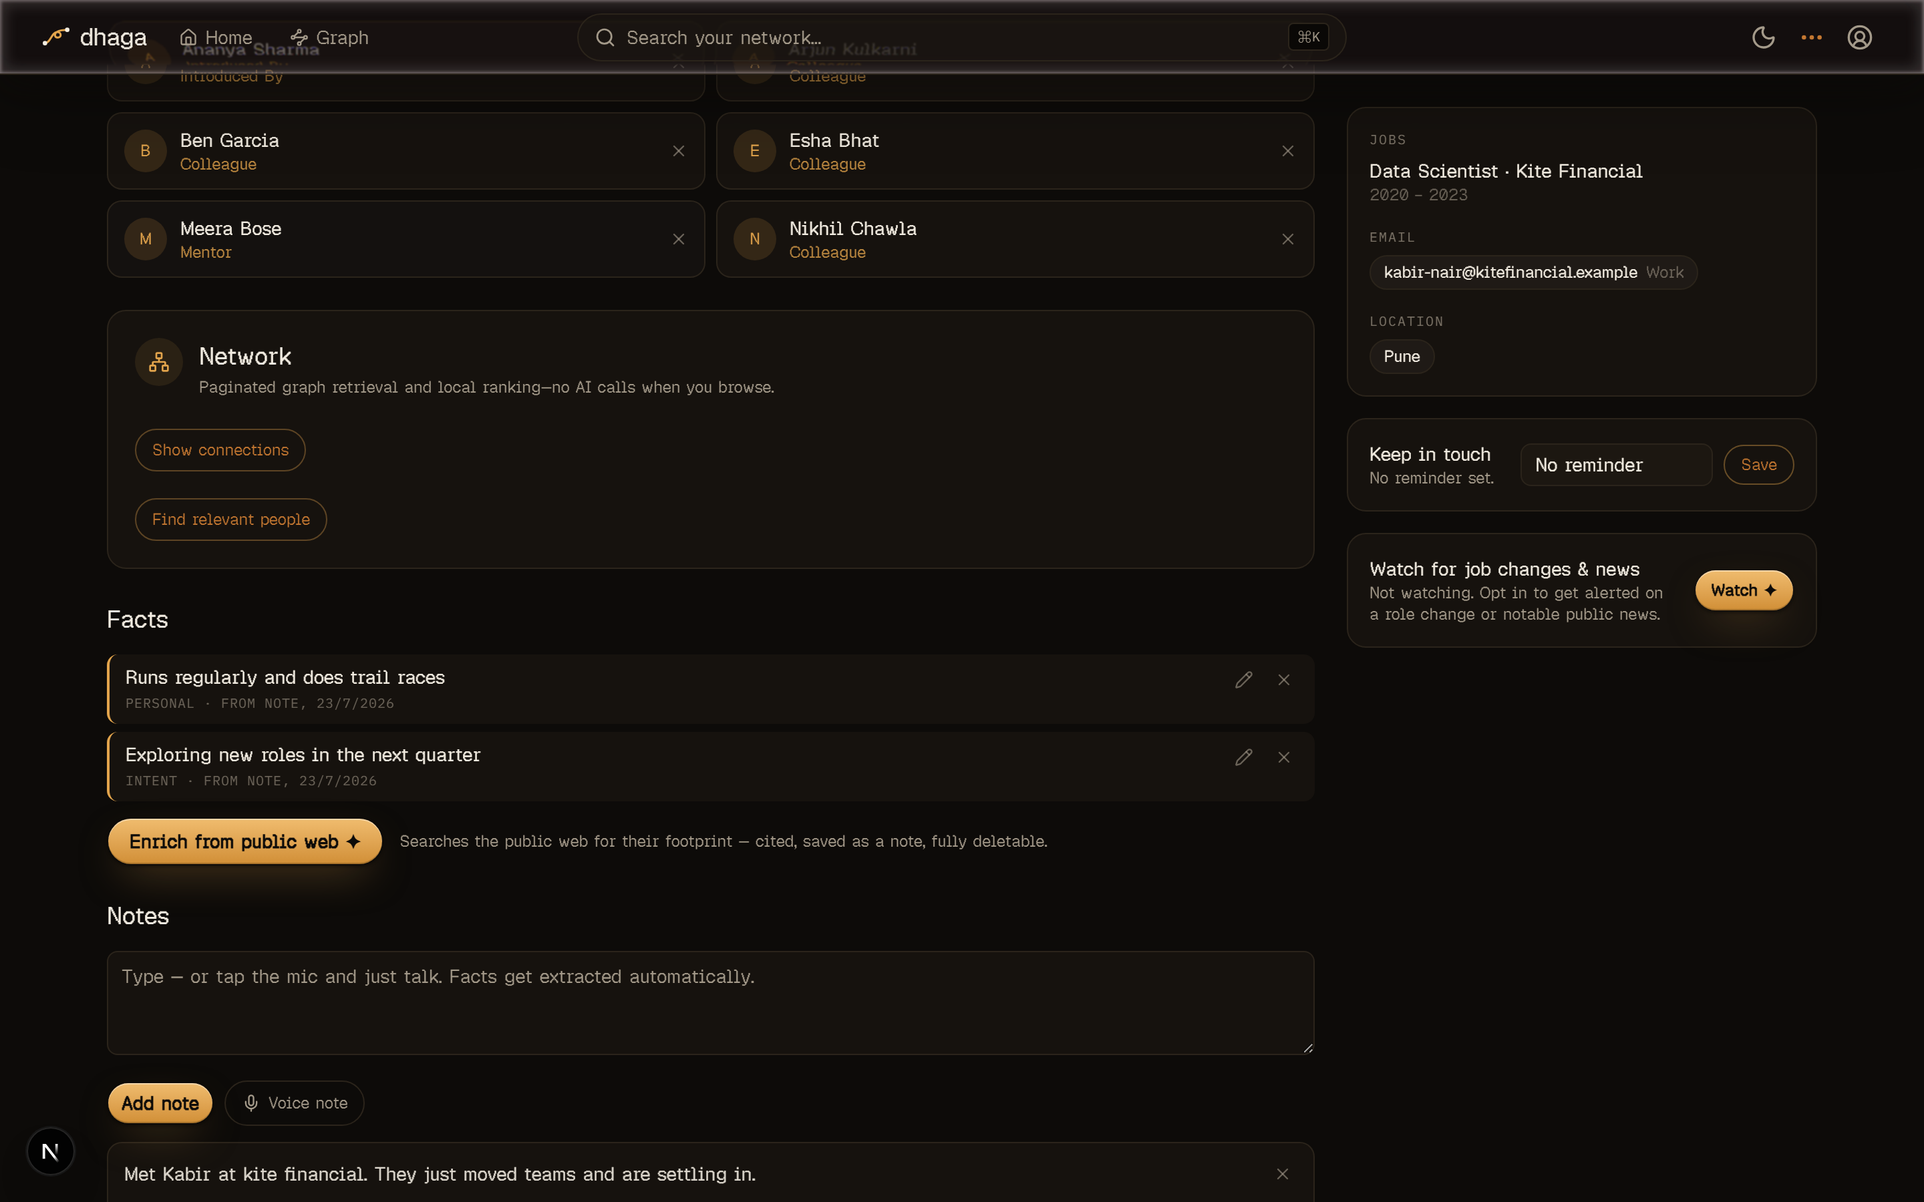
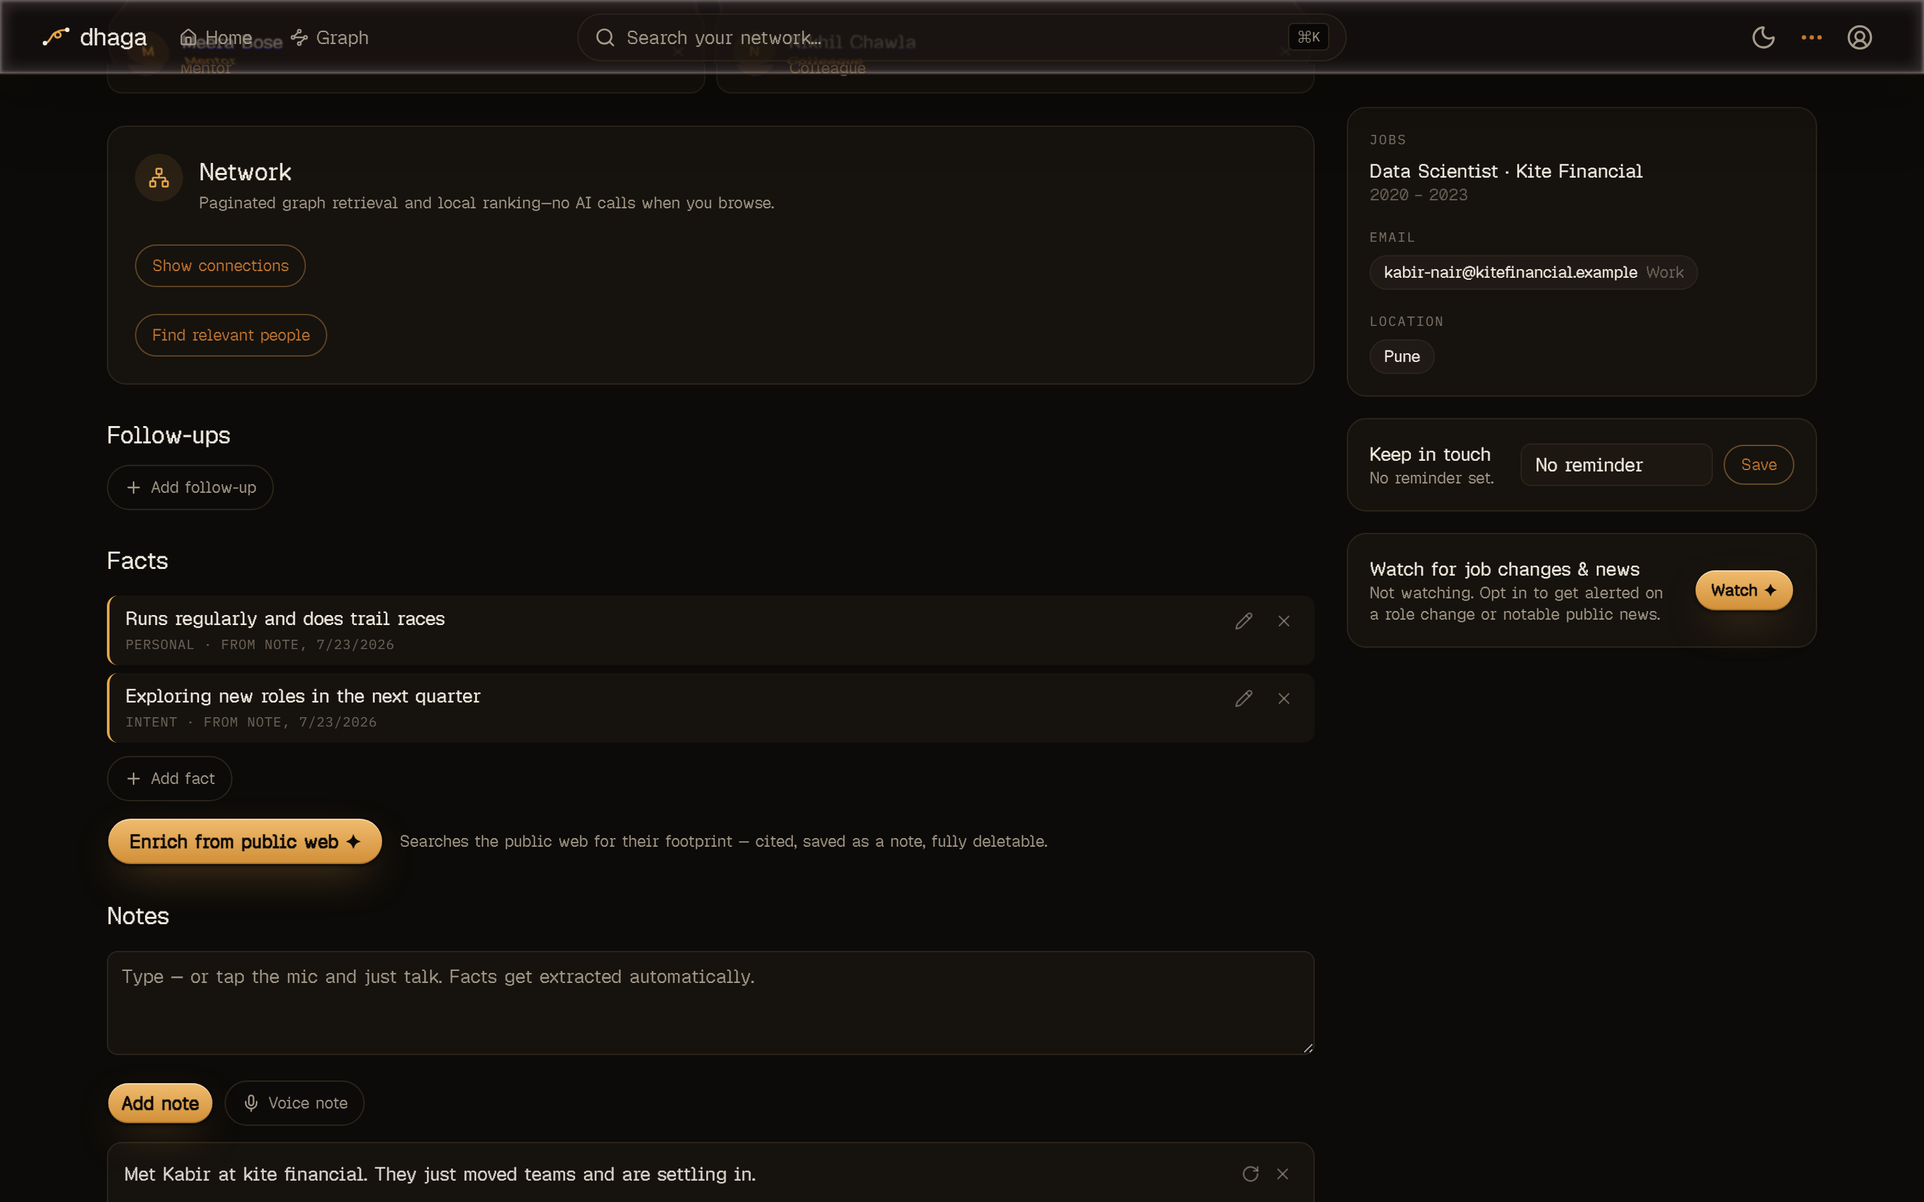
docs: refresh all documentation for merged PRs #52–#75
Audits every merged PR from #52 through #75 and brings the developer
docs, operator docs, and the "Using Dhaga" user guide back in sync with
what shipped. One consolidated pass; per-PR analysis was done in
isolation, then reconciled so each doc file (and each root↔fumadocs
mirror) is edited once.

User guide (how-to-use):
- settings.mdx rewritten around the new Account/Capture/Calendar/
  Suggestions/Import tabs; adds Profile, AI-credit balance, Voice
  teaching, morning-reminder toggle, and the vCard/CSV + Google/Outlook
  connector + mobile import story (#59, #70, #71, #73)
- index.mdx: new "Importing contacts" card + Home stat-strip mention (#59, #69)
- capturing-people.mdx: multi-image card scan + live webcam, voice
  tap-to-fix teaching (#71, #75)
- notes-and-facts.mdx: re-run extraction, voice tap-to-fix (#68, #71)

Operator / self-hosting:
- SELF_HOSTING/DEPLOYING + fumadocs mirrors: new BETTER_AUTH_TRUSTED_ORIGINS
  and NEXT_PUBLIC_SITE_URL env vars, MORNING_REMINDER_HOURLY, single-user
  guard, SUPERUSER + broadened pooler boot-guard, admin subscription/AI
  credit controls, contact-import-is-core note, AGPL-removal admin/ dir (#52,
  #57, #59, #62, #64, #73)
- SCALING mirror: getDb() fan-out / one-query hot-path note (#60)
- TESTING (+ mirror): connect-retry, multi-image + morning-reminder QA (#65, #73, #75)

Reference / status:
- checklist.md + mirror, BRD.md + de-named mirror, FOLLOW_UPS, SECURITY
[…]

diff --git a/docs/checklist.md b/docs/checklist.md
@@ -19,7 +19,7 @@ Legend: **(M#)** = BRD MVP feature · **(v1.x)** = BRD roadmap phase
 - [x] `apps/web/.env.example` documenting every env var
 - [x] CI (typecheck + lint + tests + build on push)
 - [x] Test suite (vitest, in-memory PGlite): heuristic parser, export formats, receipts cascade
-- [x] Fix Dependabot alert (postcss <8.5.10 via next — npm override to ^8.5.16)
+- [x] Fix Dependabot alert (postcss <8.5.10 via next — npm override to ^8.5.16) (needed a version-keyed postcss override to actually dedupe next's nested pin — PR #55)
 - [x] Deploy to Vercel (landing + app)
 
 ## 1. Shared core — `packages/core`
@@ -44,6 +44,9 @@ Legend: **(M#)** = BRD MVP feature · **(v1.x)** = BRD roadmap phase
 - [x] Loading skeletons on data-heavy screens (route `loading.tsx` files)
 - [x] Dark warm theme reused from landing tokens
 - [x] Home dashboard: due reach-outs + open follow-ups across the graph
+- [x] Per-section Suspense streaming on home/profile/settings (each data region streams independently behind its own boundary)
+- [x] Home stat strip: people/companies/notes/facts/relationships/events/follow-ups/entities counts via one aggregate RLS-scoped query (`lib/repo/stats.ts`), own Suspense region
+- [x] Searchable EntityCombobox + trigram GIN indexes replace bare entity text boxes
 - [ ] Fix render-blocking font/animation on first load (BRD §7.6) — Geist Pixel self-hosted via `next/font/local` (was a `display=block` Google Fonts `<link>`, invisible text until it loaded); landing WebGL cursor + GSAP scroll thread deferred via `next/dynamic({ ssr: false })` so they no longer block first paint — 2026-07-12, build verification + push still pending
 - [ ] Cache authenticated `/app/*` navigation so switching pages doesn't re-run the full Postgres query set on every click (BRD §7.6) — per-user scoped, invalidated on mutation, not a raw TTL. Built (`perf/app-nav-cache`): a `cachePerUser`/`invalidatePerUser` helper (`lib/cache/per-user.ts`) over `unstable_cache` — cache key + tag both include `userId` and the read runs inside `withUserDb(userId)`, so an entry can only ever hold that user's data (missed invalidation = same-user staleness, never cross-tenant leak). The force-dynamic shell (`getCachedAppConfig`: isAdmin/searchWeights/**sttEngine**/storeCardPhotos) now costs **zero** Postgres round-trips per nav, and the node-type ontology (`getCachedNodeTypes`, home/entities) is cached too; both bust via `revalidateTag(..,{expire:0})` in their settings/node-type mutations. Volatile feeds (due reach-outs, signals, suggestions) intentionally left live. The heaviest hot read, **`/api/graph/full`**, is also cached now via `cachePerUserVersioned`/`getCachedFullGraph` — version-keyed on the cheap `fetchGraphVersion()` aggregate, so a graph change changes the key (no explicit invalidation, never stale) and the multi-table assembly runs once per version instead of per request. Store backend is Next's default incremental cache; Redis = a `cacheHandler` in `next.config.ts`, no app-code change (Vercel already has a durable shared Data Cache). Typecheck/lint/vitest pass; **still to do**: manual browser pass + push; extend to `schedulePrefs`/`calendarConnected` (home) with their own tags
 - [ ] Read scale at ~10k users — cache the remaining **hot reads** per user (contact/event lists version-keyed + JSON-safe; data-only parts of the home feed) with the `cachePerUserVersioned` pattern, behind a Redis `cacheHandler` for shared multi-instance self-hosting — graph payload already done; see [SCALING.md](SCALING.md) §1 + roadmap
@@ -65,7 +68,7 @@ Legend: **(M#)** = BRD MVP feature · **(v1.x)** = BRD roadmap phase
 - [x] `embeddings` table (pgvector, 384-dim, receipts via owner_type/owner_id)
 - [x] `follow_ups` table
 - [x] `ai_actions` metering table (day one requirement)
-- [x] Deletion cascade: contact → notes → facts → edges → embeddings ("forget this person") — `forgetContact` already did this correctly (`repo/contacts/mutations.ts`)
+- [x] Deletion cascade: contact → notes → facts → edges → embeddings ("forget this person") — `forgetContact` cascaded the chain, but deleting a contact that had produced relationship suggestions was blocked by `edge_suggestions` RESTRICT FKs until PR #57 extended the cascade to them (`repo/contacts/mutations.ts`)
 - [x] Note deletion tombstones derived facts/edges (receipts invariant) — embeddings cleanup moved into `deleteNote` itself (2026-07-07, was only in the action layer, so any other caller skipped it); `graph-receipts.test.ts` now asserts embeddings are gone, not pushed
 
 ## 4. Capture — web quick-add (v1.1, M1-equivalent for web)
@@ -83,6 +86,7 @@ Legend: **(M#)** = BRD MVP feature · **(v1.x)** = BRD roadmap phase
 - [x] Manual add-contact form (no extraction path)
 - [x] People list with filter + contact detail page
 - [x] Company auto-link: extracted company name → find-or-create `companies` row
+- [x] Jobs editor — create a new company inline when there's no match (reuses EntityCombobox create + `findOrCreateCompany`)
 - [x] User-triggered enrichment: web search → cited enrichment note → receipted facts
 - [x] LinkedIn Connections CSV import — user's own LinkedIn data export → bulk contacts, ToS-safe (BRD §6.7) (v1.1); `lib/import/linkedin.ts`, wired into `/app/import`, LinkedIn header format covered by `csv-import.test.ts`/`import-repo.test.ts`
 - [x] Google Contacts CSV import — user's own Google export (both header generations, `:::` multi-values) → bulk contacts (v1.1); `lib/import/google.ts`, wired into `/app/import`, covered by `csv-import.test.ts`/`import-repo.test.ts`
@@ -108,6 +112,7 @@ Legend: **(M#)** = BRD MVP feature · **(v1.x)** = BRD roadmap phase
 - [x] Extraction: note → facts/relationships/follow-ups/tags (Haiku, structured output)
 - [x] Facts render on contact page with receipt ("from note, {date}")
 - [x] User can edit/delete a fact inline (M4 acceptance)
+- [x] Manual add-fact / add-follow-up forms (no extraction path, NULL receipt)
 - [x] Deleting a note tombstones its derived facts/edges
 - [x] Re-process a note: manual "re-run extraction" on an existing note (text/voice/capture_source) — after an edit or a missed fact — re-enqueues a `note_extraction` job for the same note; idempotent (worker's `clearNoteDerivations` replaces the note's prior facts/edges/follow-ups, never duplicates), AI budget still metered in the worker
 - [x] Voice notes on web (browser SpeechRecognition → transcript → extraction)
@@ -190,6 +195,7 @@ Legend: **(M#)** = BRD MVP feature · **(v1.x)** = BRD roadmap phase
 - [ ] Job-change detection — simplified to web-search-only per product decision (2026-07-05), superseding the CSV-diff mechanism in BRD §6.7: shares the signal-detection sweep with the news watchlist below, `kind: "job_change"` when the search results show a different title/employer than what's on file. Typecheck/lint/build/tests pass; manual click-through needs a real `FIRECRAWL_API_KEY` + `ANTHROPIC_API_KEY`, not done
 - [ ] Opt-in news watchlist: per-contact "Watch for job changes & news" toggle (contact page) → nightly cron (`/api/jobs/detect-signals`, `apps/web/vercel.json`) → provider-agnostic web search (`packages/core/src/search`, Firecrawl by default — cheaper per-search than an LLM's own web-search tool) → Haiku classifies hits → `signals` table → Home "Signals" feed + contact page, "Add as note" (receipted) or dismiss. Capped per plan (`PRO_TIER_WATCHLIST_CAP`/`FREE_TIER_WATCHLIST_CAP`). Typecheck/lint/build/tests pass (`signals.test.ts`, `search-client.test.ts`); manual click-through not done (needs live API keys)
 - [x] Keep-in-touch cadence reminders + Home reach-out feed (ideas.md #2)
+- [x] Opt-in morning follow-up reminder email (daily nudge for open follow-ups + due reach-outs via `/api/jobs/daily`, dummy-account exclusion via `isDummyAccount()`)
 - [ ] Automatic relationship-decay detection — built read-time (no nightly job needed): "Going quiet" feed on Home surfaces contacts with no touch in ~8 months and no cadence set (`repo/strength.ts`); typecheck/lint/build/tests pass, manual click-through not done
 - [ ] Relationship-strength score from own-graph data (interaction recency/frequency, notes, events — no external data) — built: 0–100 recency×frequency score (`scoreStrength`), ranks the Going-quiet feed strongest-first; tests in `strength.test.ts`, manual click-through not done
 - [x] Post-event digest email (user-triggered from the event page, template-based)
@@ -226,7 +232,8 @@ Legend: **(M#)** = BRD MVP feature · **(v1.x)** = BRD roadmap phase
 - [x] `docker compose up` — multi-stage `Dockerfile` (node:22-slim, standalone output via `DHAGA_STANDALONE=1`, non-root, 494MB) + `compose.yml` (pgvector/pgvector:pg16 db with healthcheck) verified end-to-end 2026-07-16: Postgres-backed and zero-config PGlite boots both serve with clean first-boot DDL self-heal (the earlier single-stage image was never actually runnable — missing workspace manifest)
 - [ ] Public roadmap + good-first-issues — `docs/ROADMAP.md` written 2026-07-07, now linked from `README.md`'s Status section (2026-07-12); good-first-issue candidates drafted but intentionally not posted as real GitHub issues yet (that's a public/outward action for the owner to approve)
 - [ ] Replace randomuser.me landing portraits with licensed photos before paid marketing
-- [ ] SEO content cluster — 10 pillar "Guides" posts (personal-CRM / networking, India + founder slant, high-CTR titles/metas) under a new `guides` blog category, plus reusable on-brand MDX visual components (`Figure`/`NodeGraph`/`FlowDiagram`/`Timeline`/`FeatureMatrix`/`StatStrip` in `apps/web/src/components/blog/visuals`, registered in `mdx-components.tsx`) — written 2026-07-24, builds clean (SSG); pending in-browser visual QA + merge
+- [x] Docs/nav/SEO overhaul (2026-07-23): Resources discoverability nav + two-track `/docs` hub segregation (product vs guides), blog categories + frontmatter, full SEO suite (sitemap/robots/llms.txt/RSS/OG/JSON-LD), CLAUDE.md Rule 14 (subagent orchestration)
+- [ ] SEO content cluster — 15 "Guides" posts (10 pillars + 5 "Dhaga vs X" comparisons; personal-CRM / networking, India + founder slant, high-CTR titles/metas) under a new `guides` blog category, plus reusable on-brand MDX visual components (`Figure`/`NodeGraph`/`FlowDiagram`/`Timeline`/`FeatureMatrix`/`StatStrip` in `apps/web/src/components/blog/visuals`, registered in `mdx-components.tsx`) — written 2026-07-24, builds clean (SSG); pending in-browser visual QA
 
 ## 19. SaaS platform — accounts, multi-tenancy, billing, admin (Dhaga Cloud)
 

diff --git a/SECURITY.md b/SECURITY.md
@@ -11,8 +11,8 @@ afterthought.
   central Dhaga server that reads your graph.
 - **Hosted (Dhaga Cloud) tenant isolation** is enforced by Postgres row-level
   security, keyed to the authenticated user via a session-scoped setting, on a
-  non-privileged database role (no `BYPASSRLS`) with `FORCE ROW LEVEL SECURITY`
-  on every tenant table.
+  non-privileged database role (no `BYPASSRLS` or `SUPERUSER`) with
+  `FORCE ROW LEVEL SECURITY` on every tenant table.
 - **Receipts and deletion.** Every AI-derived fact links back to its source
   note. Deleting data cascades and tombstones across notes, facts, edges, and
   embeddings — transactionally, so nothing is left half-deleted.
@@ -39,3 +39,13 @@ reasonable window to fix before any disclosure. We aim to acknowledge within
   corrected so the table is tenant-isolated exactly like every other, and the
   surrounding tenant-isolation surface was reviewed at the same time. No user
   data was known to have been accessed.
+- **2026-07 — superuser RLS bypass and pooler-detection gap.** The same audit
+  found the boot-time role check tested only `rolbypassrls`, missing that a
+  `SUPERUSER` role also bypasses row-level security unconditionally, and that
+  transaction-mode pooler detection (which breaks the session-scoped setting
+  tenant isolation relies on) only recognized Supabase's `:6543` port. Both are
+  closed: the boot guard now rejects a connecting role with `BYPASSRLS` **or**
+  `SUPERUSER`, and pooler detection was broadened to PgBouncer/Supavisor/
+  Neon-pooler hostnames, with a `DHAGA_ALLOW_TRANSACTION_POOLER` escape hatch
+  for a pooler confirmed session-scoped. No user data was known to have been
+  accessed.

diff --git a/docs/DEPLOYING.md b/docs/DEPLOYING.md
@@ -31,6 +31,10 @@ Two very different things deploy from this repo today:
      project, copy its connection string). **Without this, `/app` cannot
      store anything on Vercel**; with it, the full app works.
    - `BETTER_AUTH_SECRET`, `BETTER_AUTH_URL` — once `DATABASE_URL` is set.
+   - `BETTER_AUTH_TRUSTED_ORIGINS` — optional; extra origins allowed on
+     sign-in/sign-up beyond `BETTER_AUTH_URL` (comma-separated or a wildcard),
+     to avoid `INVALID_ORIGIN`. Vercel preview URLs are auto-trusted, so this
+     is usually unneeded.
    - `ANTHROPIC_API_KEY` — AI features.
    - `DHAGA_EMBEDDINGS=off` recommended on Vercel for now: the local
      embedding model (~100 MB of native runtime) is a poor fit for
@@ -40,6 +44,9 @@ Two very different things deploy from this repo today:
      cron; Vercel sends `Authorization: Bearer $CRON_SECRET` to it
      automatically once the var is set (unset = the route 401s to everyone,
      including Vercel's own cron — the feature is simply off).
+   - `NEXT_PUBLIC_SITE_URL` — set once a custom domain is attached (step 4):
+     the canonical origin for the sitemap, robots.txt, OG tags, and llms.txt.
+     Defaults to the Vercel preview URL until then.
 4. Deploy. Add your domain under Settings → Domains.
 
 ### Hosted-mode extras (Dhaga Cloud only — skip for plain self-hosting)

diff --git a/apps/extension/STORE_LISTING.md b/apps/extension/STORE_LISTING.md
@@ -152,11 +152,12 @@ The same zip uploads unchanged to the
 (free registration). Reuse the copy above; Edge's privacy form asks the same
 questions.
 
-## When the cloud domain is final
+## Adding the production domain to host_permissions
 
-Once Dhaga Cloud has its permanent domain (a custom domain, not the
-`dhaga-web.vercel.app` preview address), ship a minor version that adds it to
-`host_permissions` so cloud users skip the runtime grant. That's a new zip +
-resubmission (version bump required); the optional-permission flow keeps
-working for self-hosters. Until then, users on the Vercel address just approve
-the one-time access prompt in the options page.
+The cloud domain is final (`https://www.dhaga.app`), but `manifest.json`'s
+`host_permissions` still lists only `http://localhost:3000/*` — the pending
+action is adding the production origin there so cloud users skip the runtime
+grant. That's a new zip + resubmission (version bump required); the
+optional-permission flow keeps working for self-hosters either way. Until
+that ships, cloud users just approve the one-time access prompt in the
+options page.

diff --git a/docs/BRD.md b/docs/BRD.md
@@ -143,7 +143,7 @@ The MVP must prove one loop end-to-end:
 
 | Dimension | MVP | Full Product |
 |---|---|---|
-| Capture | Card scan (single or multi-image), vCard QR, voice notes (mobile) | + badges, web quick-add (paste email/article/URL), browser extension one-click add, LinkedIn Connections CSV import, email forwarding, LinkedIn QR, call-log prompts |
+| Capture | Card scan (single or multi-image), vCard QR, voice notes (mobile) | + badges, web quick-add (paste email/article/URL), browser extension one-click add, LinkedIn Connections CSV import, vCard import, Google Contacts CSV import, Google/Outlook OAuth connectors, mobile device import, email forwarding, LinkedIn QR, call-log prompts |
 | Intelligence | Extraction + NL search + follow-up drafts | + enrichment, change detection, decay alerts, pre-meeting briefs, warm paths |
 | Graph | Per-user, on-device, basic edges | Rich ontology, article-to-contact links, team-shared graph, cross-user dedup |
 | Platform | iOS + Android (one RN codebase) | + web app + browser extension + watch/widgets |

diff --git a/docs/TESTING.md b/docs/TESTING.md
@@ -536,6 +536,15 @@ On a contact, add this note:
       digest (people + facts + follow-ups) arrives at `DHAGA_OWNER_EMAIL`.
 - [ ] Unset `DHAGA_OWNER_EMAIL` and retry — clear "Set DHAGA_OWNER_EMAIL…"
       error, no crash (`apps/web/src/lib/actions/events.ts:53`).
+- [ ] **Settings** → Suggestions tab → enable **Morning follow-up reminders**
+      → hit `/api/jobs/daily` (same `CRON_SECRET` header as §7j) with open
+      follow-ups or due reach-outs pending — an email lands at
+      `DHAGA_OWNER_EMAIL` naming the pending count. Confirm the dummy/
+      load-test account (`loadtest@dhaga.internal`) never receives it even if
+      it's the configured owner — `isDummyAccount()` skips it
+      (`apps/web/src/lib/jobs/morning-reminder.ts:48`). Gated on `RESEND_*`
+      being set; `MORNING_REMINDER_HOURLY=true` additionally restricts the
+      send to the recipient's local ~08:00 run.
 
 ### 7q. Telegram bot & outbound webhooks (optional envs)
 

diff --git a/docs/SELF_HOSTING.md b/docs/SELF_HOSTING.md
@@ -250,6 +250,8 @@ None of the `packages/ee/.env.example` vars (`DHAGA_HOSTED_MODE`,
 |---|---|---|
 | `BETTER_AUTH_SECRET` | Yes | `openssl rand -base64 32` |
 | `BETTER_AUTH_URL` | Yes | Your instance's base URL |
+| `BETTER_AUTH_TRUSTED_ORIGINS` | No | Extra allowed origins beyond `BETTER_AUTH_URL` (comma-separated or wildcard) — avoids `INVALID_ORIGIN`; Vercel preview URLs are auto-trusted |
+| `NEXT_PUBLIC_SITE_URL` | No | Canonical origin for sitemap/robots/OG/llms.txt; defaults to the production deployment origin when unset |
 | `DATABASE_URL` | Only on serverless (Vercel) | Otherwise defaults to embedded PGlite |
 | `ANTHROPIC_API_KEY` | No | AI features degrade to heuristic parsing / disabled without it |
 | `RESEND_API_KEY`, `RESEND_FROM_EMAIL`, `DHAGA_OWNER_EMAIL` | No | Event digests, reach-out digest + morning follow-up reminder |

diff --git a/docs/FOLLOW_UPS.md b/docs/FOLLOW_UPS.md
@@ -71,6 +71,13 @@ hardening, and correctness items. Grouped by area.
   fan-out sites rides with that change. Rule of thumb (now in
   [`SCALING.md`](SCALING.md) lever 2): resolve `getDb()` **once** per request and
   thread the handle; prefer one round-trip over a fan-out.
+- **Connect-retry doesn't cover the EE `drizzle(getPool())` reads.** The
+  transient-acquisition retry (`connect-retry.ts`, both the EE tenant pool and
+  the core pool) wraps `openTenantConnection`/`openAdminConnection` and
+  better-auth's session read, but not the admin/access-request/billing repos,
+  which issue `pool.query()` directly. Low-frequency paths, so not urgent — an
+  enhancement to bring them under the same backoff+jitter wrapper (see
+  [`SCALING.md`](SCALING.md) lever 2).
 
 ## Self-hosting / packaging
 
